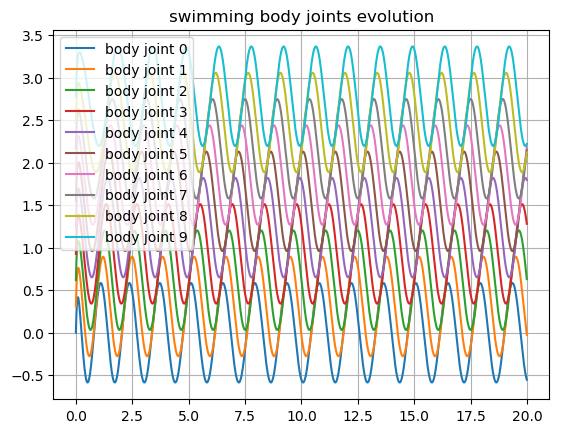
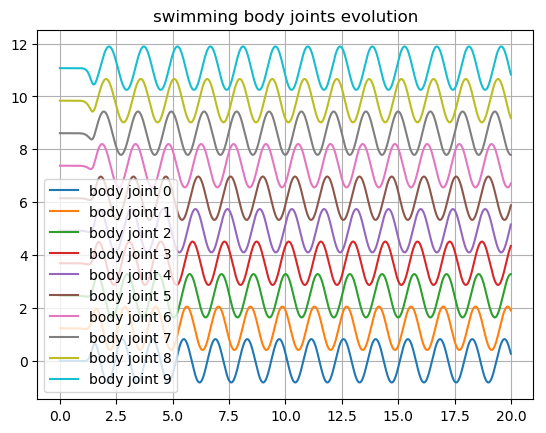
Updated plots

diff --git a/Lab9/Webots/controllers/pythonController/plot_results.py b/Lab9/Webots/controllers/pythonController/plot_results.py
@@ -35,9 +35,9 @@ def plot_body_joints(time, joint_angles, variable='body joint angle'):
     nb_legs = 4
     nb_body = joint_angles.shape[1]-nb_legs
     plt.figure(variable.replace(" ", "_"))
-    offset = joint_angles[:nb_body].max()-joint_angles[:nb_body].min()
+    offset = joint_angles[:, :nb_body].max()-joint_angles[:, :nb_body].min()
     for body_joint_index in range(nb_body):
-        plt.plot(time, joint_angles[:, body_joint_index]+0.9*body_joint_index*offset,
+        plt.plot(time, joint_angles[:, body_joint_index]+.75*body_joint_index*offset,
                  label="body joint " + str(body_joint_index))
     plt.grid()
     plt.legend()
@@ -48,10 +48,10 @@ def plot_leg_joints(time, joint_angles, variable='leg joint angle'):
     nb_legs = 4
     nb_body = joint_angles.shape[1]-nb_legs
     plt.figure(variable.replace(" ", "_"))
-    offset = joint_angles[nb_body:].max()-joint_angles[nb_body:].min()
+    offset = joint_angles[:, nb_body:].max()-joint_angles[:, nb_body:].min()
 
     for leg_joint_index in range(nb_legs):
-        plt.plot(time, joint_angles[:, nb_body+leg_joint_index]+0.9*leg_joint_index*offset,
+        plt.plot(time, joint_angles[:, nb_body+leg_joint_index]+.75*leg_joint_index*offset,
                  label="leg joint " + str(leg_joint_index))
     plt.grid()
     plt.legend()
